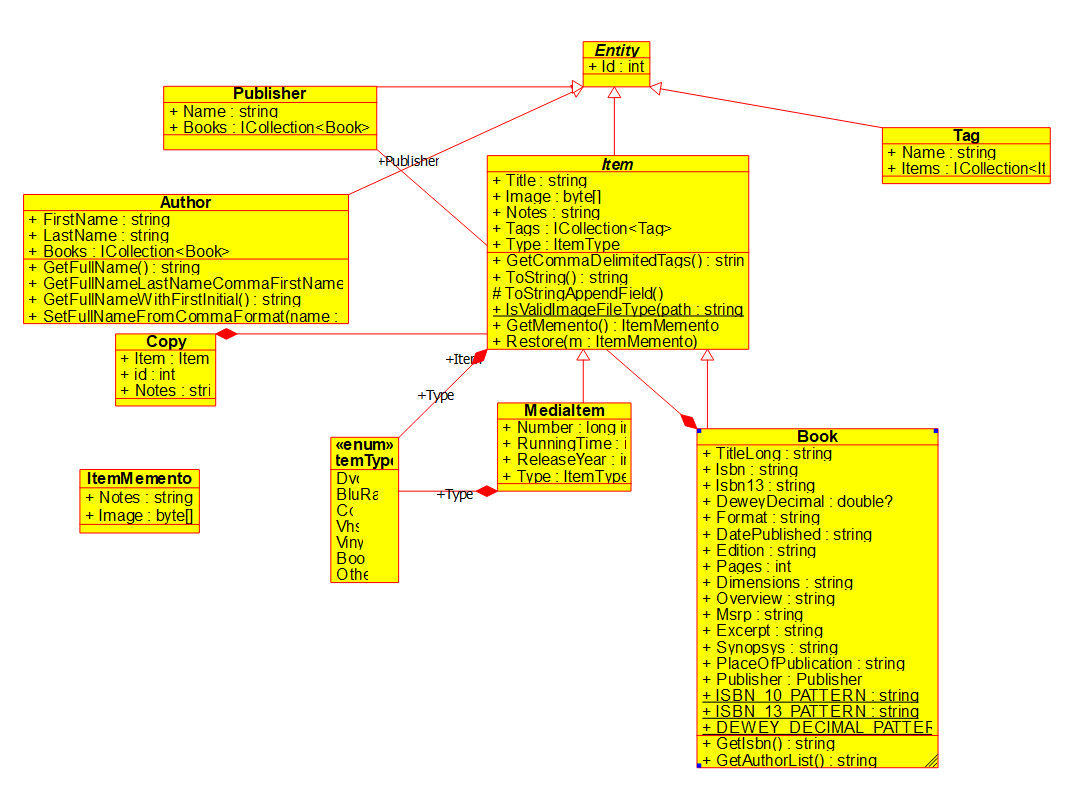
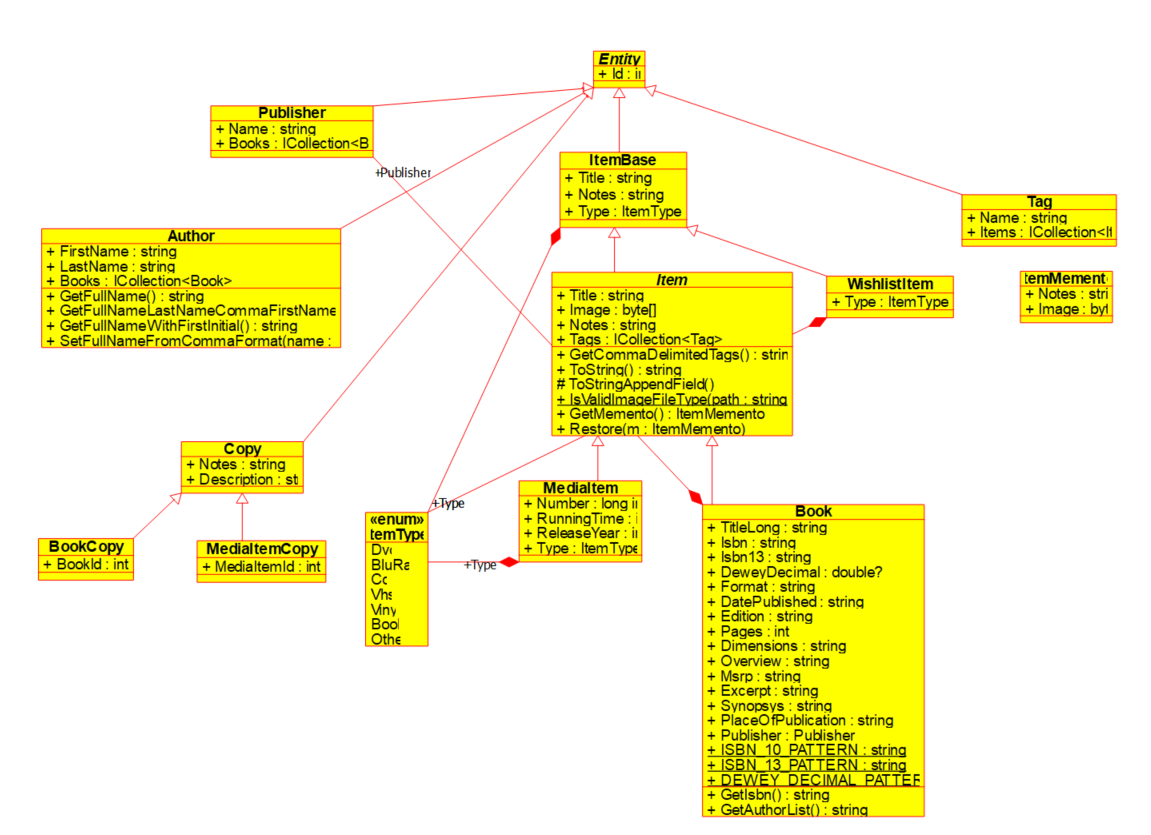
update docs

diff --git a/docs/detailed_design.md b/docs/detailed_design.md
@@ -93,6 +93,14 @@ This document describes some of the detail of the data, architecture and user in
 |tagId    |INTEGER      |No          |Foreign key, references (Tags)id. Unique constraint on (mediaId, tagId).               |
 &nbsp;
 
+#### Wishlist
+|**Field**|**Data Type**|**Nullable**|**Comments/Description**|
+|---------|-------------|------------|---------------|
+|id       |INTEGER      |No          |Primary key, autoincremented|
+|title    |TEXT         |No          |               |
+|type     |INTEGER      |No          |               |
+|notes    |TEXT         |Yes         |               |
+
 ### Entity model
 - The entities used in the client application are based on the structure of the database.
 - A UML diagram of the entity model follows:
